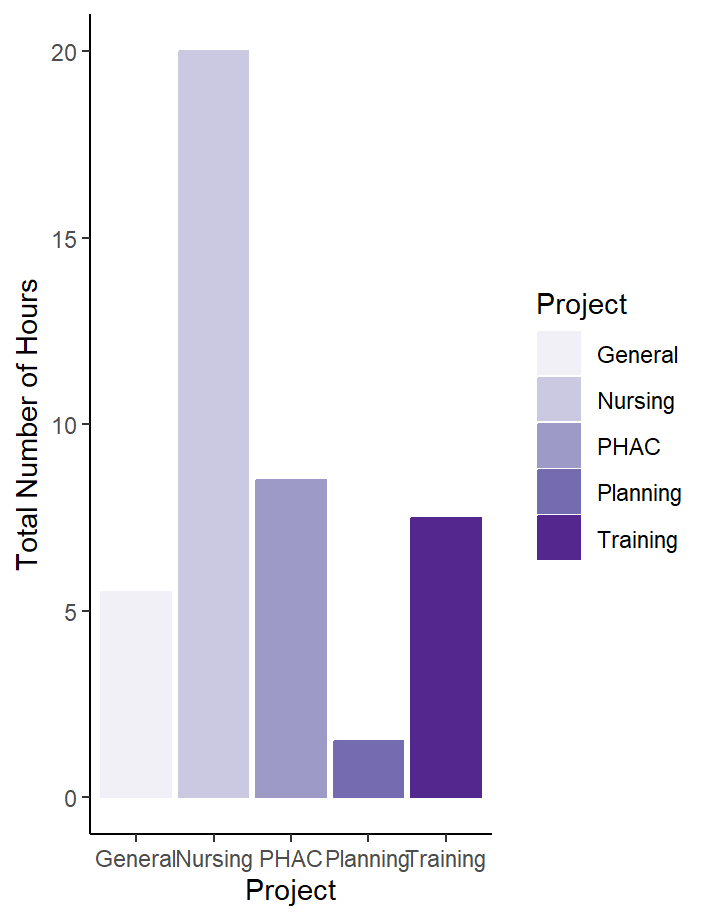
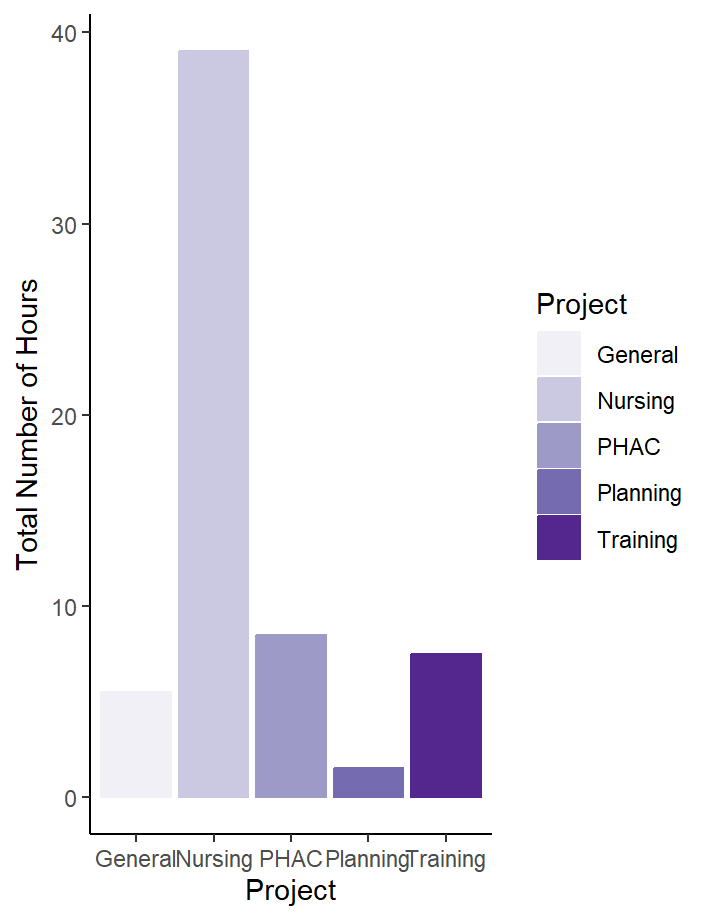
vacay

diff --git a/docs/index.html b/docs/index.html
@@ -1892,11 +1892,11 @@ class="section level3">
 </div>
 <table>
 <colgroup>
-<col width="12%" />
-<col width="13%" />
-<col width="8%" />
-<col width="59%" />
-<col width="6%" />
+<col width="14%" />
+<col width="15%" />
+<col width="10%" />
+<col width="52%" />
+<col width="7%" />
 </colgroup>
 <thead>
 <tr class="header">
@@ -1909,12 +1909,11 @@ class="section level3">
 </thead>
 <tbody>
 <tr class="odd">
-<td align="left">2024-07-22</td>
+<td align="left">2024-08-05</td>
 <td align="left">Monday</td>
 <td align="left">Nursing</td>
-<td align="left">Making combined protocol, adjusting survey
-materials.</td>
-<td align="right">3</td>
+<td align="left">Making the Qualtrics survey for phase 2B</td>
+<td align="right">2</td>
 </tr>
 </tbody>
 </table>
@@ -1975,6 +1974,60 @@ class="section level3">
 </thead>
 <tbody>
 <tr class="odd">
+<td align="left">2024-08-05</td>
+<td align="left">Nursing</td>
+<td align="left">Making the Qualtrics survey for phase 2B</td>
+<td align="right">2.0</td>
+</tr>
+<tr class="even">
+<td align="left">2024-08-02</td>
+<td align="left">Nursing</td>
+<td align="left">Generating UWO-formatted email invitations and
+reminders.</td>
+<td align="right">3.0</td>
+</tr>
+<tr class="odd">
+<td align="left">2024-07-31</td>
+<td align="left">Nursing</td>
+<td align="left">Reading / Downloading / Organizing papers about
+generating good surveys in qualtrics</td>
+<td align="right">3.0</td>
+</tr>
+<tr class="even">
+<td align="left">2024-07-29</td>
+<td align="left">Nursing</td>
+<td align="left">Writing drafts of the invitation emails and reminders
+for the various phases of the study.</td>
+<td align="right">2.0</td>
+</tr>
+<tr class="odd">
+<td align="left">2024-07-29</td>
+<td align="left">Nursing</td>
+<td align="left">Watching various videos / reading tutorials about
+generating surveys in qualtrics</td>
+<td align="right">2.0</td>
+</tr>
+<tr class="even">
+<td align="left">2024-07-27</td>
+<td align="left">Nursing</td>
+<td align="left">Reading / Downloading / Organizing papers about
+post-stroke spasticity.</td>
+<td align="right">4.0</td>
+</tr>
+<tr class="odd">
+<td align="left">2024-07-26</td>
+<td align="left">Nursing</td>
+<td align="left">Reviewing document standards for ethics subissions at
+UWO</td>
+<td align="right">2.0</td>
+</tr>
+<tr class="even">
+<td align="left">2024-07-25</td>
+<td align="left">Nursing</td>
+<td align="left">Reviewing documents from Amanda</td>
+<td align="right">1.0</td>
+</tr>
+<tr class="odd">
 <td align="left">2024-07-22</td>
 <td align="left">Nursing</td>
 <td align="left">Making combined protocol, adjusting survey
@@ -1999,7 +2052,7 @@ points of overlap.</td>
 <td align="left">2024-07-17</td>
 <td align="left">Nursing</td>
 <td align="left">Generating drafts of the survey materials for Phase I
-&amp; II, drafing invitation emails</td>
+&amp; II</td>
 <td align="right">3.0</td>
 </tr>
 <tr class="odd">
